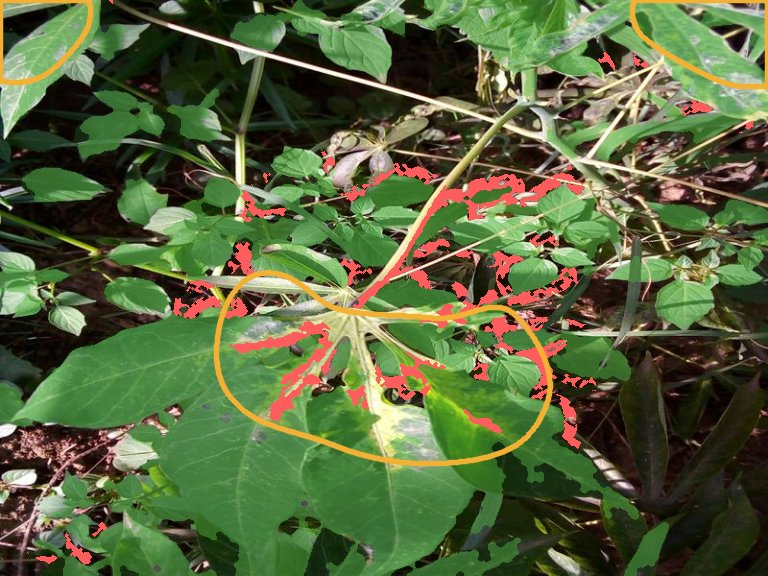
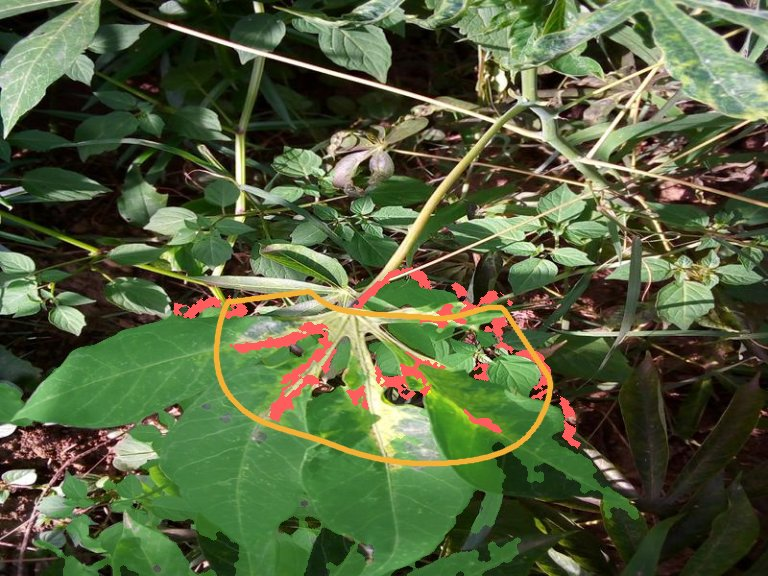
feat(demo): overlay da IA corrigido (issue #7 da IA) e texto do Saiba mais

diff --git a/src/i18n/pt-BR.ts b/src/i18n/pt-BR.ts
@@ -265,7 +265,7 @@ export const ptBR = {
   'learn.how.title': 'Como o app funciona',
   'learn.how.1': 'A foto é reduzida no próprio celular (fica mais leve e mais rápida de enviar) e vai para o servidor de análise.',
   'learn.how.2': 'Lá, uma inteligência artificial treinada com fotos de campo separa 5 situações: bacteriose, três outras doenças da mandioca (estria marrom, mosqueado verde e mosaico) e folha sadia. Uma análise de cor mede as manchas amareladas e marrons.',
-  'learn.how.3': 'O app mostra o risco de bacteriose: baixo, médio ou alto. A partir do risco médio, o resultado diz que há sinais de bacteriose. A análise de cor mede quanto da folha tem manchas — é a área destacada em vermelho; com folhas secas ou solo ao fundo, ela pode marcar o fundo também. O contorno amarelo mostra, de forma aproximada, a região da foto que mais pesou na decisão da IA; ele não acompanha a borda da mancha.',
+  'learn.how.3': 'O app mostra o risco de bacteriose: baixo, médio ou alto. A partir do risco médio, o resultado diz que há sinais de bacteriose. A análise de cor mede quanto da folha tem manchas — é a área destacada em vermelho, contada só na folha analisada; em mato denso, quando as folhas se encostam, ela ainda pode marcar folhagem seca ao redor. O contorno amarelo mostra, de forma aproximada, a região da foto que mais pesou na decisão da IA; ele não acompanha a borda da mancha.',
   'learn.how.4': 'A gravidade segue a parte da folha com manchas: Leve (menos de 3%), Moderada (de 3% a 15%) e Grave (15% ou mais).',
   'learn.how.technical': 'Detalhe técnico: rede EfficientNet-B0 exportada em ONNX, com 5 classes (CBB, CBSD, CGM, CMD e sadia), treinada com 21.397 fotos de campo de Uganda (Kaggle Cassava Leaf Disease) e servida por FastAPI com ONNX Runtime (GreenLeaf IA v2). No teste com 2.140 fotos nunca vistas, a IA encontrou 78% das bacterioses (revocação) e descartou corretamente 95,5% das folhas sem bacteriose (especificidade). Bacteriose a partir de 26% de probabilidade (limiar calibrado); risco alto acima de 60%. Se o modelo não estiver disponível, o servidor usa só a análise de cor.',
   'learn.limits.title': 'Limitações',

diff --git a/src/i18n/en.ts b/src/i18n/en.ts
@@ -266,7 +266,7 @@ export const en: Messages = {
   'learn.how.title': 'How the app works',
   'learn.how.1': 'The photo is reduced on the phone itself (lighter and faster to send) and goes to the analysis server.',
   'learn.how.2': 'There, an artificial intelligence trained on field photos tells 5 situations apart: bacterial blight, three other cassava diseases (brown streak, green mottle and mosaic) and a healthy leaf. A colour analysis measures the yellowish and brown spots.',
-  'learn.how.3': 'The app shows the risk of bacterial blight: low, medium or high. From medium risk on, the result says there are signs of blight. The colour analysis measures how much of the leaf has spots — the area highlighted in red; with dry leaves or soil in the background, it may mark the background too. The yellow outline roughly shows the part of the photo that weighed most in the decision of the AI; it does not follow the edge of the spot.',
+  'learn.how.3': 'The app shows the risk of bacterial blight: low, medium or high. From medium risk on, the result says there are signs of blight. The colour analysis measures how much of the leaf has spots — the area highlighted in red, counted only on the analysed leaf; in dense vegetation, when leaves touch each other, it may still mark dry foliage around it. The yellow outline roughly shows the part of the photo that weighed most in the decision of the AI; it does not follow the edge of the spot.',
   'learn.how.4': 'Severity follows the leaf area with spots: Mild (under 3%), Moderate (3% to 15%) and Severe (15% or more).',
   'learn.how.technical': 'Technical detail: EfficientNet-B0 network exported to ONNX, with 5 classes (CBB, CBSD, CGM, CMD and healthy), trained on 21,397 field photos from Uganda (Kaggle Cassava Leaf Disease) and served by FastAPI with ONNX Runtime (GreenLeaf AI v2). On a test set of 2,140 unseen photos, the AI found 78% of blight cases (recall) and correctly ruled out 95.5% of leaves without blight (specificity). Blight from 26% probability (calibrated threshold); high risk above 60%. If the model is unavailable, the server uses colour analysis only.',
   'learn.limits.title': 'Limitations',

diff --git a/docs/decisoes.md b/docs/decisoes.md
@@ -225,6 +225,15 @@ sensível). As 750 h/mês grátis da Render cobrem um serviço ligado 24 h. Não
 atrasa e o GitHub desliga agendamentos de repositórios parados. O app não depende disso: `useServerStatus` já chama `/health`
 ao abrir e mostra "Servidor acordando". Se o app passar a ter uso real, trocar pelo plano pago e desativar a tarefa.
 
+### D-35 Overlay corrigido na IA (issue #7)
+A IA corrigiu o overlay (`Yajoojj/Axios_Cassava_IA` 2fcfe92, fecha a issue #7): a folha analisada é isolada do fundo
+(componente verde que mais cobre a região de decisão), as manchas só contam nela ou numa faixa de 3% em volta, o contorno
+amarelo é recortado pela folha e os cantos do mapa 8x8 deixaram de gerar arcos. **Mesmo modelo** (`greenleaf_effb0-2026-10-28`)
+e **mesmo contrato**: o app não precisou de mudança de código. A Render não publicou sozinha (auto-deploy ligado, mas o push não
+disparou), então o deploy foi feito pelo plugin em 29/10/2026. Demonstração regravada: diagnóstico, probabilidade e severidade
+iguais nos 5 casos; só o overlay do mosaico mudou (razão 0,083 → 0,074), porque as ilustrações 1 a 4 têm fundo liso. O texto
+de "Saiba mais" diz agora que o vermelho conta só a folha analisada e que, em mato denso, ainda pode marcar folhagem seca.
+
 ## Modelo para próximos registros
 
 | Data | Atividades realizadas | Dificuldades / decisões | Responsável |
